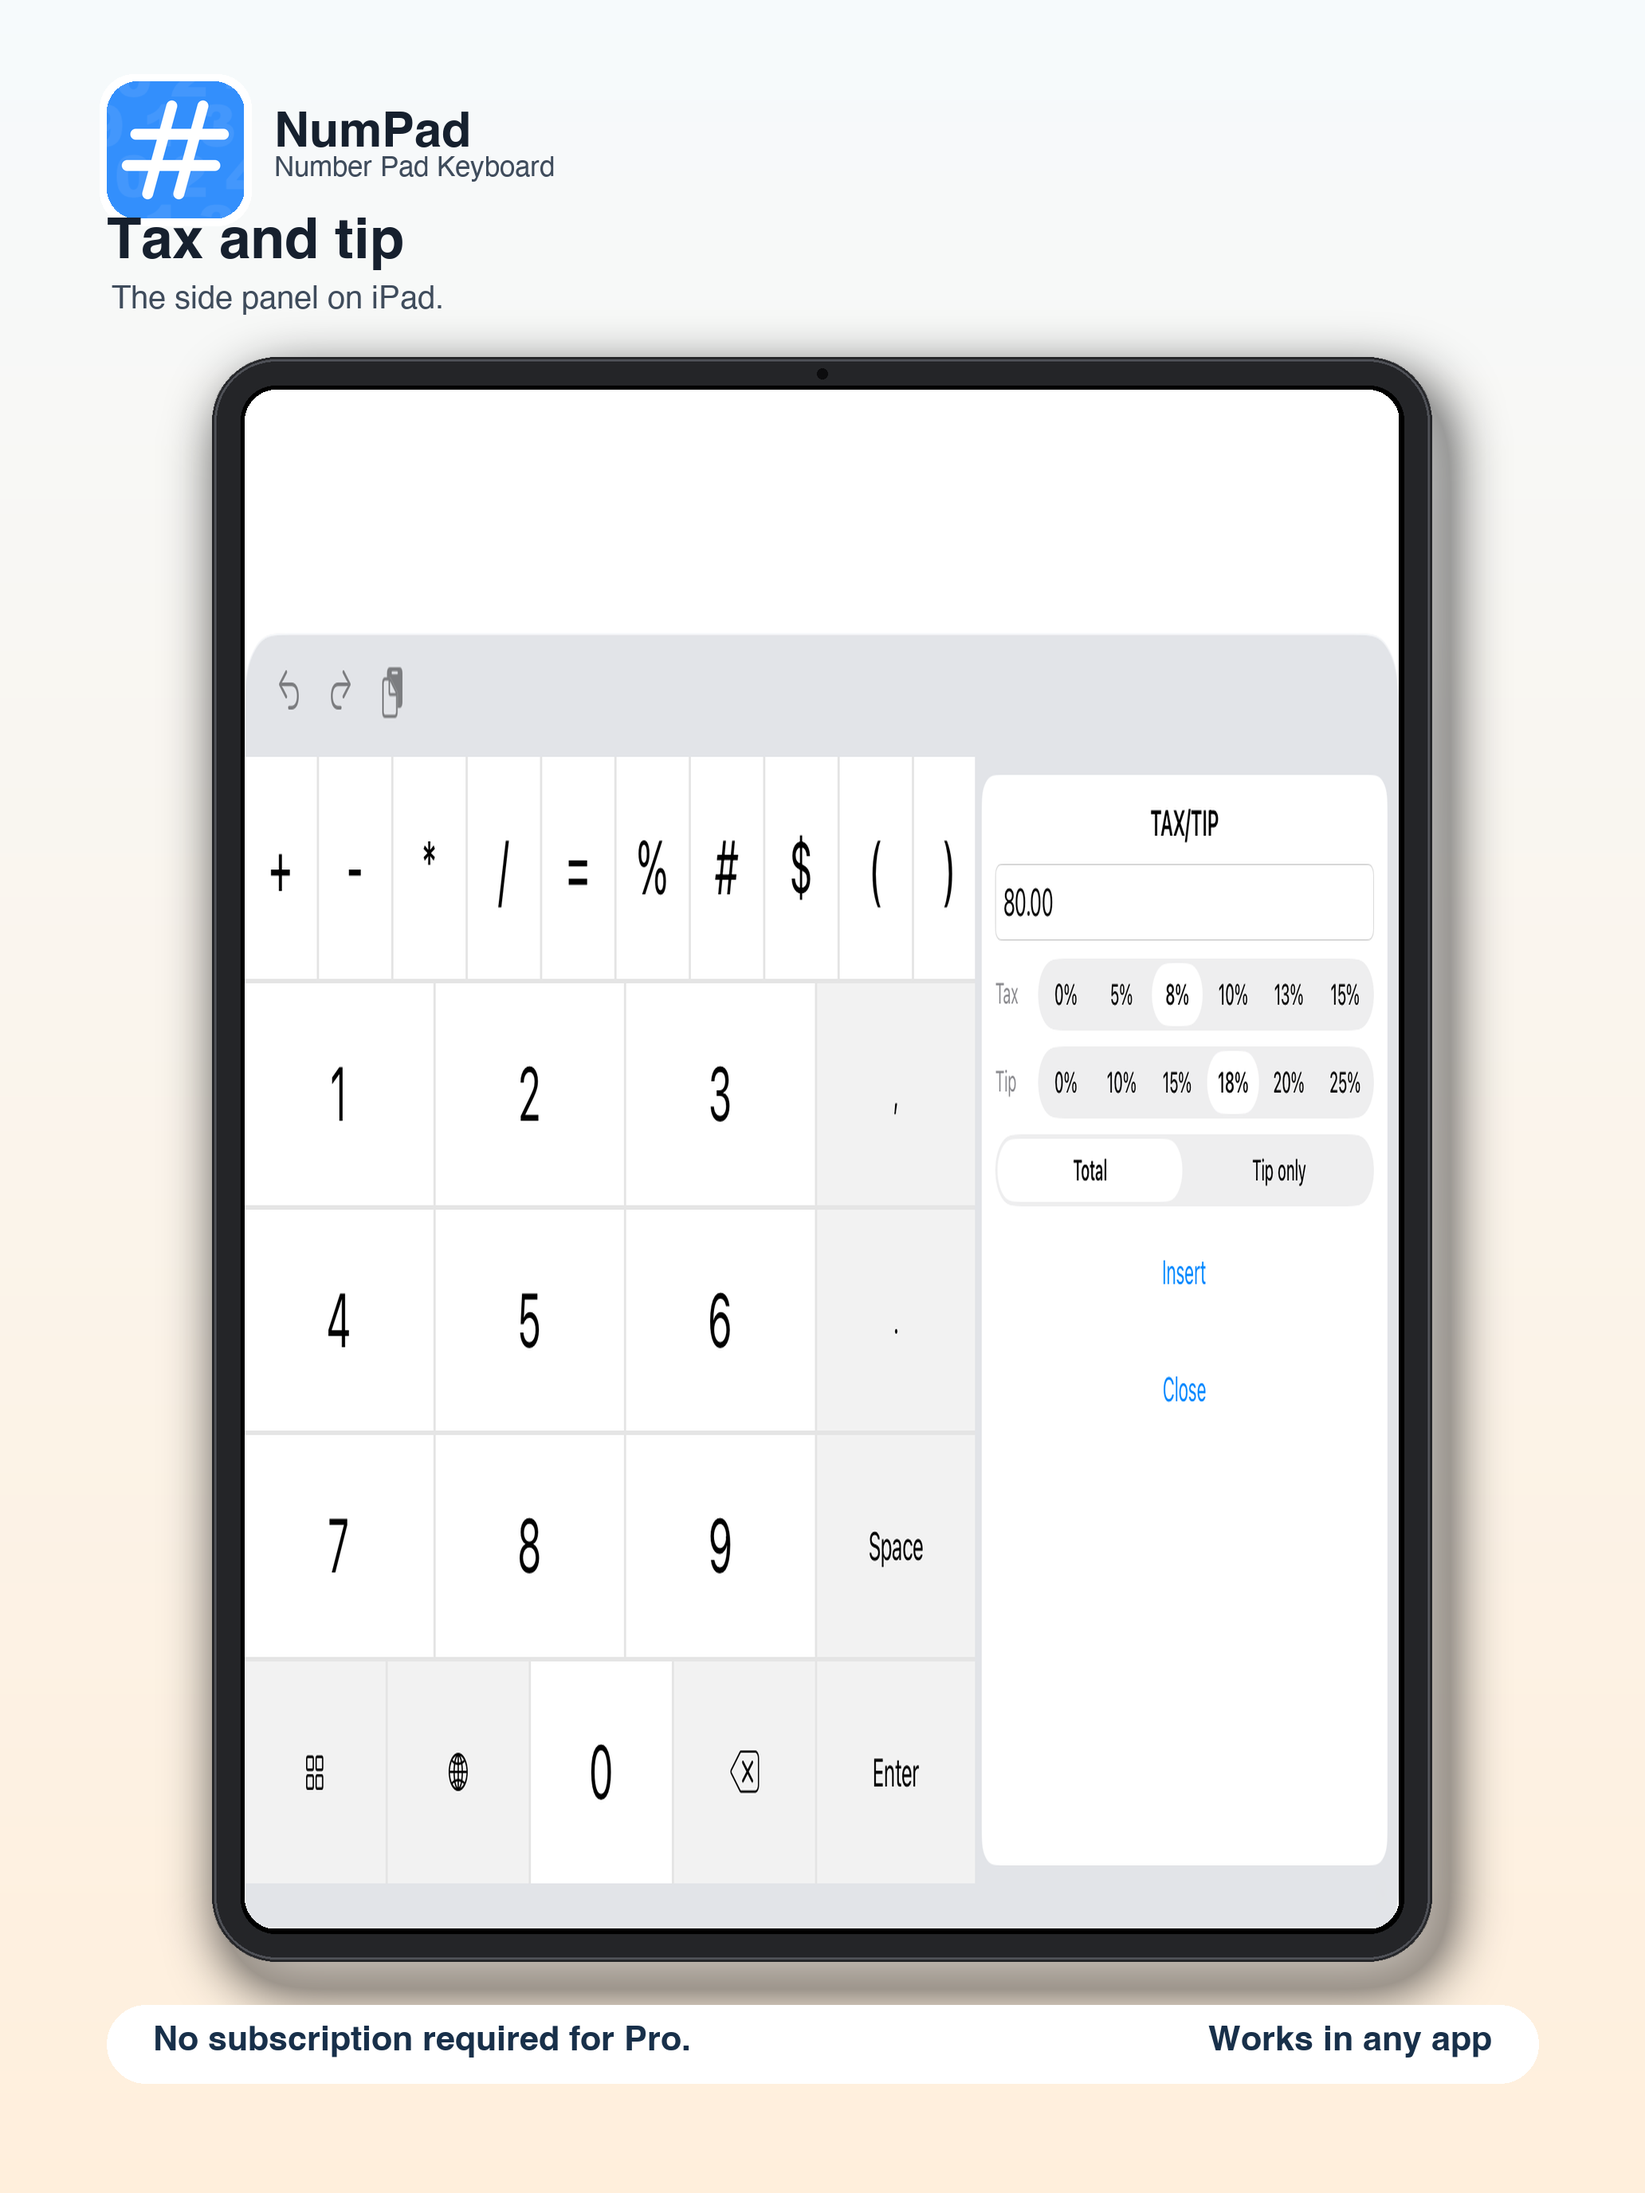
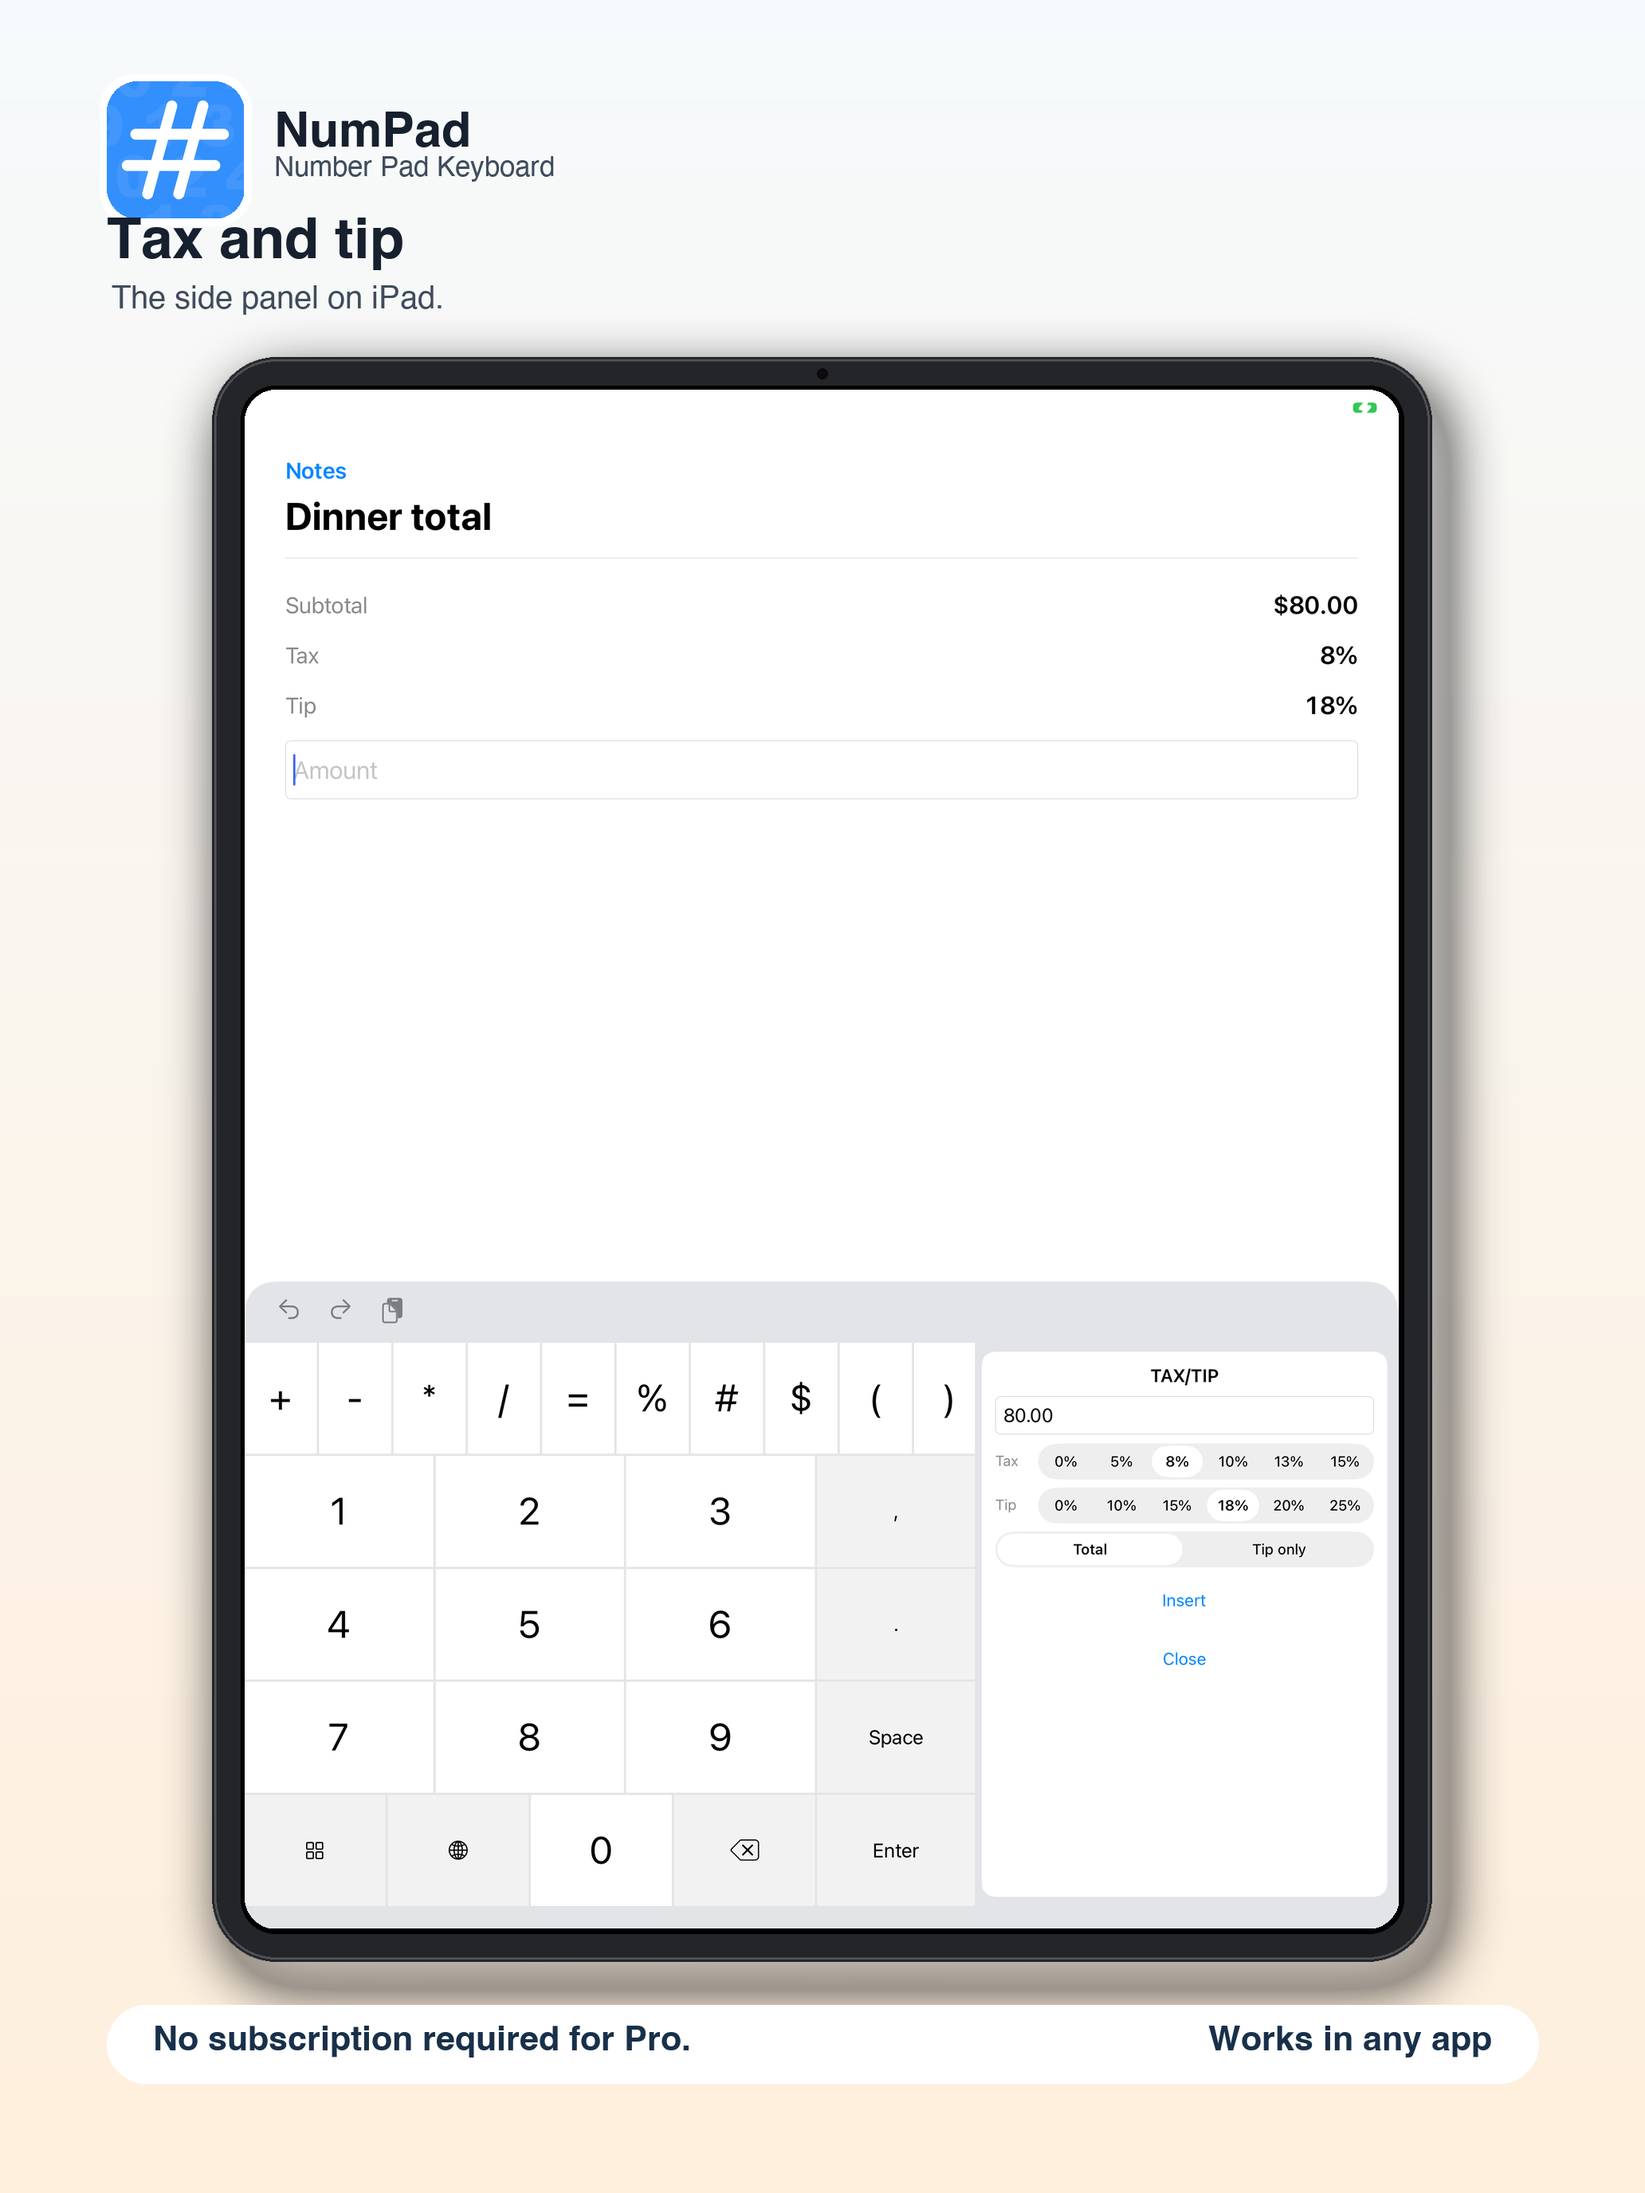
fix(marketing): unstretched iPad 03/04, recapture packs + live theme
Drop crop-stretch so tax/tip and clipboard keep native keyboard
aspect and the 360pt side panel. Recapture 05 as Keyboard Packs
and 06 as a live Deep Purple iPad keyboard. No ASC.

diff --git a/NumPadUITests/ScreenshotCaptureTests.swift b/NumPadUITests/ScreenshotCaptureTests.swift
@@ -288,29 +288,30 @@ final class IPadAppStoreScreenshotTests: XCTestCase {
     }
 
     func test05_packs() throws {
-        guard let (_, _, numPadActive) = launchNumPadOnTypingSurface(
-            extraDebugRoutes: shotBaseRoutes + ["theme?value=black", "pack?value=programmer"],
-            typingScene: "code",
-            skipKeyboardEnable: true
-        ) else {
-            XCTFail("packs: could not raise keyboard")
-            return
-        }
-        XCTAssertTrue(numPadActive, "packs: NumPad keyboard not active")
-        Thread.sleep(forTimeInterval: 0.8)
+        // Real Keyboard Packs screen in the container — not a fake Xcode host.
+        let app = launchNumPad(debugRoutes: ["entitle?pro=1"])
+        let packsRow = app.staticTexts["Keyboard Packs"]
+        XCTAssertTrue(packsRow.waitForExistence(timeout: 20), "Home row 'Keyboard Packs' never appeared")
+        packsRow.tap()
+        XCTAssertTrue(app.navigationBars["Keyboard Packs"].waitForExistence(timeout: 10)
+            || app.staticTexts["Finance"].waitForExistence(timeout: 10),
+            "Keyboard Packs screen never appeared")
+        Thread.sleep(forTimeInterval: 0.6)
         attachScreenshot(named: "05-packs")
     }
 
     func test06_themes() throws {
-        let app = launchNumPad(debugRoutes: ["entitle?pro=1"])
-        let themeRow = app.staticTexts["Theme"]
-        XCTAssertTrue(themeRow.waitForExistence(timeout: 20), "Home row 'Theme' never appeared")
-        themeRow.tap()
-        XCTAssertTrue(app.staticTexts["Preview"].waitForExistence(timeout: 10), "Theme screen never appeared")
-        let purple = app.cells["Deep Purple"].firstMatch
-        if purple.waitForExistence(timeout: 3) {
-            purple.tap()
+        // Live iPad keyboard in Deep Purple — not the 4x4 Theme-picker preview.
+        guard let (app, _, numPadActive) = launchNumPadOnTypingSurface(
+            extraDebugRoutes: shotBaseRoutes + ["theme?value=deepPurple", "pack?value=default"],
+            typingScene: "hero",
+            skipKeyboardEnable: true
+        ) else {
+            XCTFail("themes: could not raise keyboard")
+            return
         }
+        XCTAssertTrue(numPadActive, "themes: NumPad keyboard not active")
+        tapNumPadKeys(["1", "4", "4", "0", "0"], in: app)
         Thread.sleep(forTimeInterval: 0.6)
         attachScreenshot(named: "06-themes")
     }

diff --git a/marketing/generate_app_store_screenshots.py b/marketing/generate_app_store_screenshots.py
@@ -1325,7 +1325,7 @@ def render_slide_ipad(slide: Slide, locale: str = "en", slide_idx: int = 0) -> I
     aspect = (_IPAD_SCREEN_H + 2 * _IPAD_BEZEL) / (_IPAD_SCREEN_W + 2 * _IPAD_BEZEL)
     device_w = min(IPAD_DEVICE_W_MAX, round(avail_h / aspect))
     ipad_source = IPAD_RAW / f"{IPAD_RAW_SLUGS[slide_idx]}.png"
-    device = make_ipad(ipad_source, device_w, crop=IPAD_CROPS.get(slide_idx))
+    device = make_ipad(ipad_source, device_w)  # full raw, native aspect — no crop-stretch
     device_x = (w - device.width) // 2
     device_y = avail_top + (avail_h - device.height) // 2
     canvas.alpha_composite(shadow_layer(device, (device_x, device_y), canvas.size))
